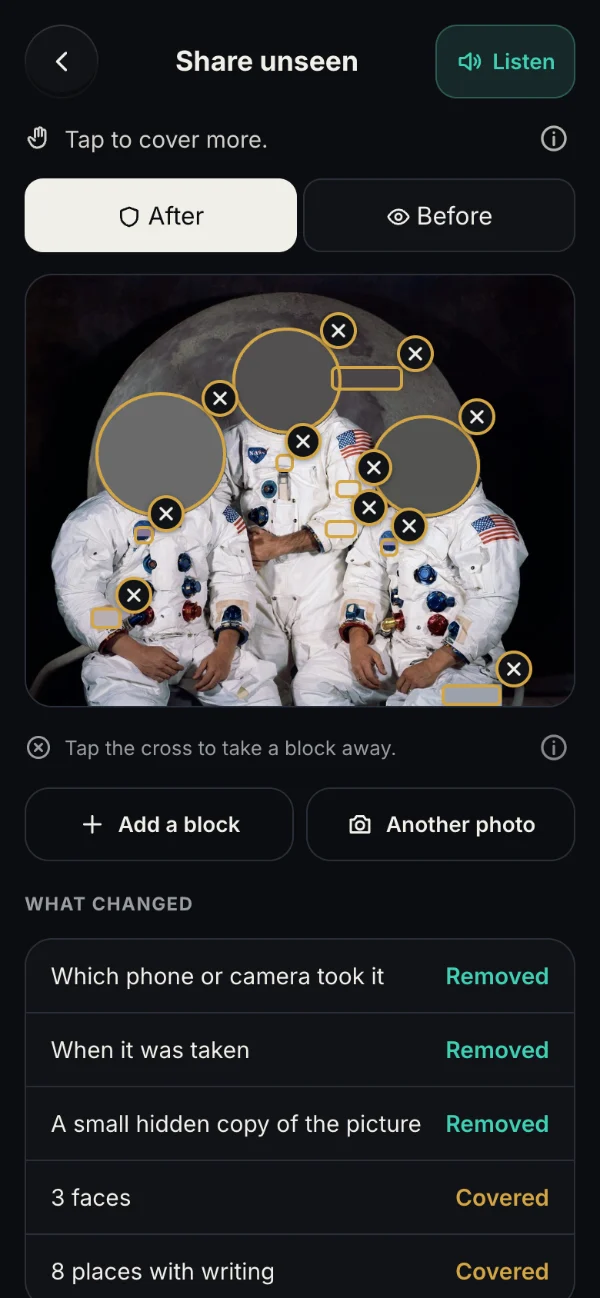
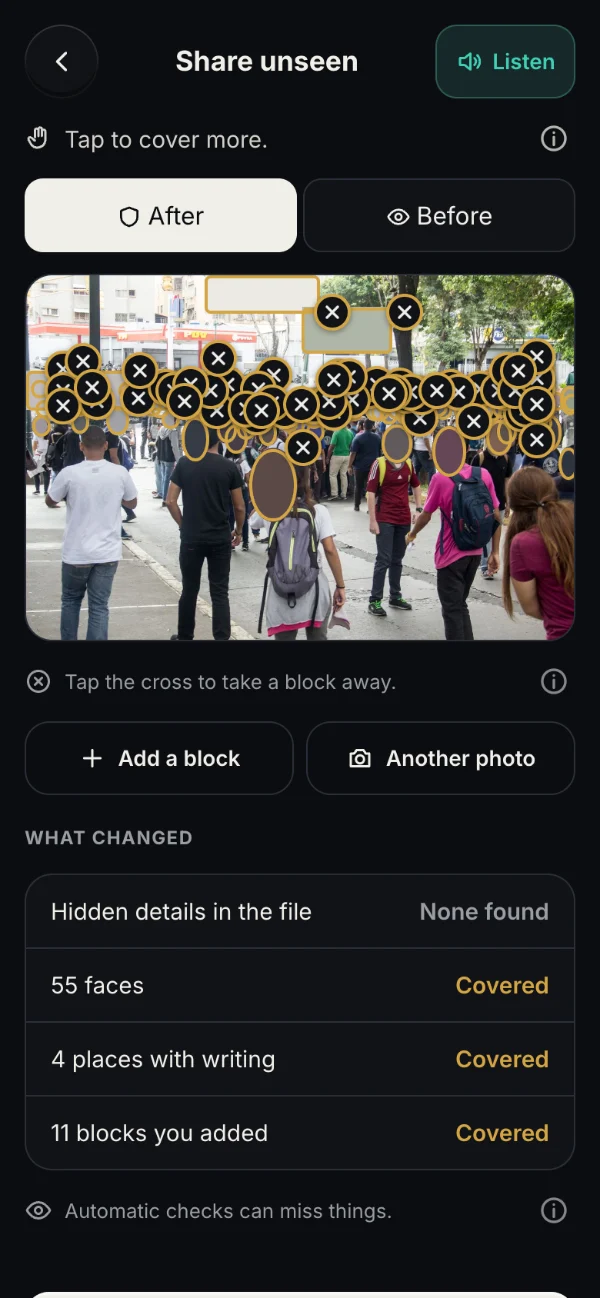
Landing page: Share unseen shows a street protest with every face covered (#73)
The Share unseen moment used a portrait of three astronauts. It now uses the wide street photo from the
crowd test set (public domain, see test/unit/fixtures/photos/README.md), with the faces the finder was
less sure of covered as well, since the page shows real people. The Add money screenshots are
regenerated too, so they show the one eCash box.

Claude-Session: https://claude.ai/code/session_01Gn2VCbdztFekyG4b4LRiEB

diff --git a/public/about/index.html b/public/about/index.html
@@ -161,7 +161,7 @@
               <img class="frame" data-frame="private" src="/about/shots/private.webp" width="600" height="1298" decoding="async" alt="Private by default: a padlock inside the two rings, and the Private only switch turned on.">
               <img class="frame" data-frame="pay-a" src="/about/shots/add-money.webp" width="600" height="1298" decoding="async" alt="Add money on the phone: a card with a paper note and a Scan button, and round icons for the other ways to pay.">
               <img class="frame" data-frame="pay-b" src="/about/shots/pay-card.webp" width="600" height="1298" decoding="async" alt="Add money on the phone at Cards: a Cashu card and a Fedimint card to tap, marked as working in the app only.">
-              <img class="frame" data-frame="share" src="/about/shots/share-unseen.webp" width="600" height="1298" decoding="async" alt="Share unseen on the phone: an old public photo of three astronauts with their faces and name tags covered, and a list of what was removed.">
+              <img class="frame" data-frame="share" src="/about/shots/share-unseen.webp" width="600" height="1298" decoding="async" alt="Share unseen on the phone: a photo of a street protest with every face in the crowd covered, and a list of what was removed.">
               <span class="touch" aria-hidden="true"><span class="finger"></span><span class="ripple"></span><span class="ripple r2"></span></span>
               <span class="beam-box" aria-hidden="true"><span class="beam"></span></span>
             </div>

diff --git a/scripts/about-shots.ts b/scripts/about-shots.ts
@@ -182,14 +182,19 @@ try {
     await ctx.close();
   }
 
-  // 4. Share unseen: a public domain photo (test/unit/fixtures/photos/README.md) with its faces covered.
+  // 4. Share unseen: a public domain street photo (test/unit/fixtures/photos/README.md) with its faces covered.
   {
     const { ctx, page } = await phone(key);
     await page.click('#btn-add');
     await page.click('#addPhoto');
     await page.waitForSelector('[data-screen=photo]');
-    await page.setInputFiles('#photoFile', { name: 'crew.jpg', mimeType: 'image/jpeg', buffer: readFileSync(join(ROOT, 'test/unit/fixtures/photos/crew.jpg')) });
+    await page.setInputFiles('#photoFile', { name: 'street.jpg', mimeType: 'image/jpeg', buffer: readFileSync(join(ROOT, 'test/unit/fixtures/photos/crowd/protest-wide.jpg')) });
     await page.waitForSelector('#photoChanges', { timeout: 60_000 });
+    // The page shows real people: the spots the finder was less sure of are covered as well.
+    if (await page.isVisible('#photoCoverMaybe')) {
+      await page.click('#photoCoverMaybe');
+      await page.waitForSelector('#photoMaybeBox', { state: 'hidden' });
+    }
     await shot(page, 'share-unseen');
     await ctx.close();
   }
